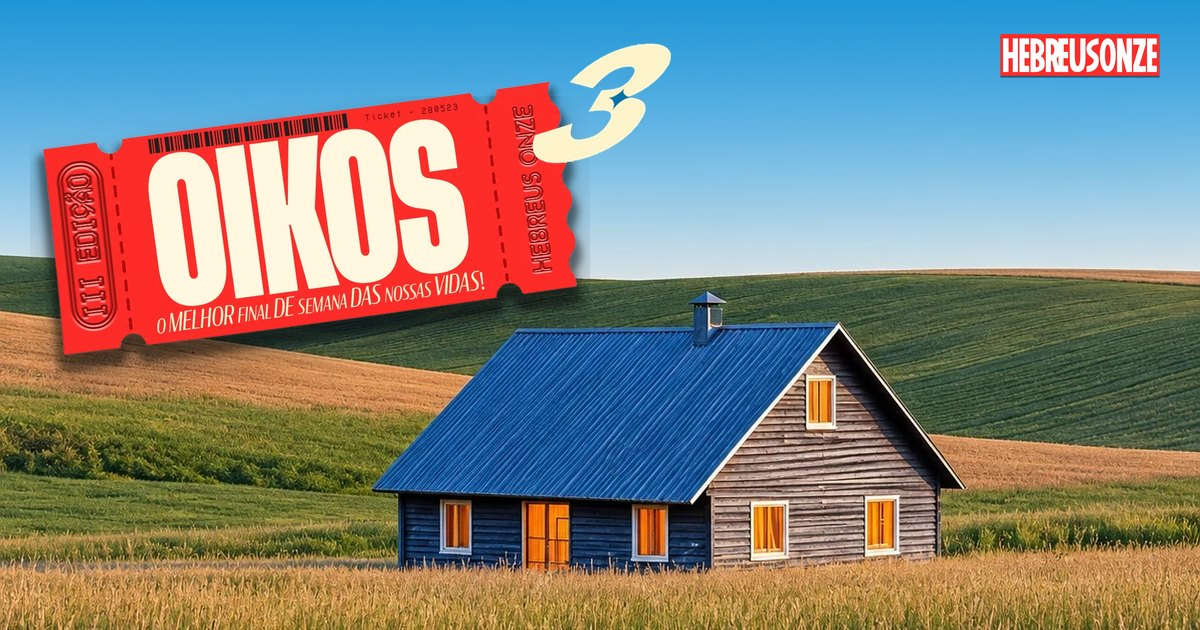
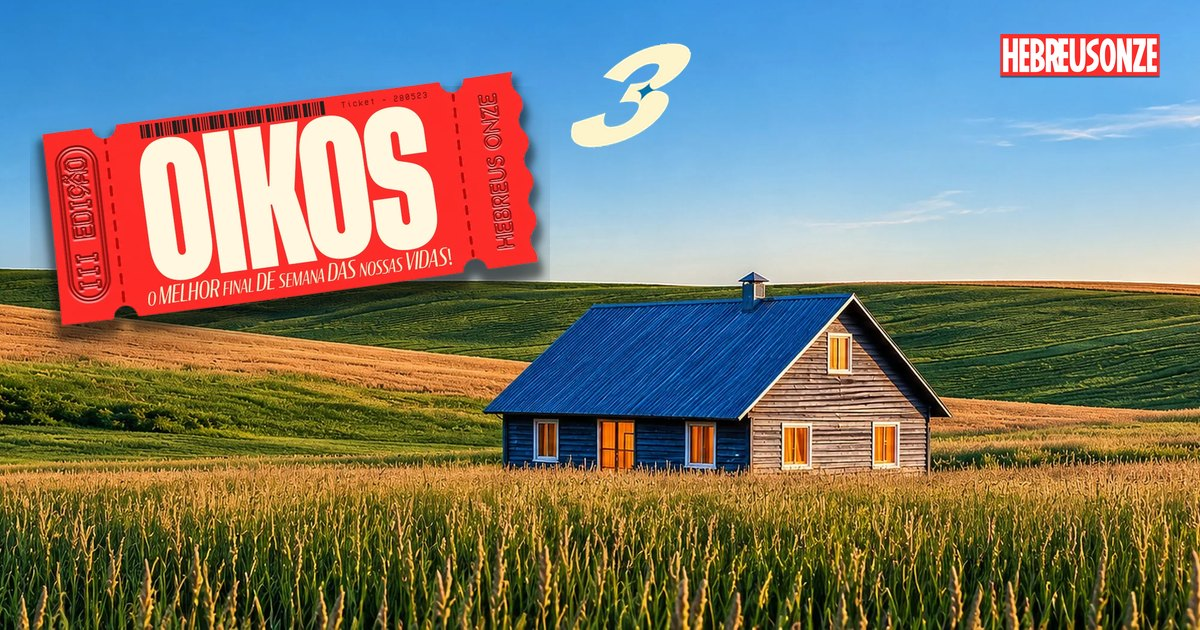
Usa a foto horizontal da casa no computador
A partir de 1000px o topo usa a nova foto horizontal (2000x1125),
ancorada pela base, com casa inteira e grama até o fim da faixa, que
continua cabendo na altura da tela. Celular e tablet em pé seguem com a
foto quadrada. A imagem de compartilhamento passa a usar a foto
horizontal.

Claude-Session: https://claude.ai/code/session_017zyRuxfzvg8sjuTHWqCQFy

diff --git a/css/estilo.css b/css/estilo.css
@@ -1043,3 +1043,28 @@ a.canal:hover .canal__seta { transform: translateX(4px); }
 
 /* Telas de 1000 a 1199px: frase do topo um pouco menor para caber na coluna */
 @media (min-width: 1000px) and (max-width: 1199px) { .hero__frase { font-size: 2.1rem; } }
+
+/* ---------- Topo no computador: foto horizontal (2000 × 1125) ----------
+   A foto fica ancorada pela base da faixa, com a largura da tela. As montanhas
+   ficam a 30,5% da largura acima da base (45,7% da altura da foto, que tem 56,25%
+   da largura), então a casa e a grama aparecem inteiras. A faixa nunca passa da
+   altura da tela, para céu, casa e grama caberem juntos. */
+.hero__casa picture { display: contents; }
+@media (min-width: 1000px) {
+  .hero {
+    --casa-h: clamp(34vw, min(39vw, calc(100vh - var(--topo-h) - 24px)), 1100px);
+    --casa-h: clamp(34vw, min(39vw, calc(100svh - var(--topo-h) - 24px)), 1100px);
+    padding-bottom: calc(30.5vw + 1rem);
+  }
+  .hero__casa {
+    -webkit-mask: linear-gradient(180deg, #0000 0%, #000 16%);
+            mask: linear-gradient(180deg, #0000 0%, #000 16%);
+  }
+  .hero__casa img,
+  .hero__casa img { width: 100%; height: auto; top: auto; bottom: 0; left: 0; }
+  .hero__casa img {
+    -webkit-mask: linear-gradient(180deg, #0000 22%, #000 40%);
+            mask: linear-gradient(180deg, #0000 22%, #000 40%);
+  }
+  .hero__tres-grande { bottom: calc(30.5vw - 3vw); }
+}

diff --git a/index.html b/index.html
@@ -132,7 +132,11 @@
     <img class="hero__tres-img" src="assets/img/oikos/tres-brilho.webp" width="1016" height="731" alt="">
   </div>
   <div class="hero__casa" aria-hidden="true">
-    <img src="assets/img/oikos/casa-campo.webp" width="1254" height="1254" alt="">
+    <picture>
+      <!-- Computador: foto horizontal. Celular e tablet em pé: foto quadrada. -->
+      <source media="(min-width: 1000px)" srcset="assets/img/oikos/casa-campo-larga.webp" width="2000" height="1125">
+      <img src="assets/img/oikos/casa-campo.webp" width="1254" height="1254" alt="">
+    </picture>
   </div>
 
   <div class="fita">
